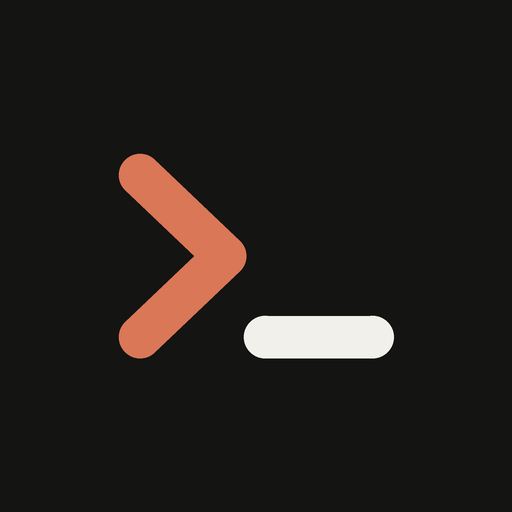
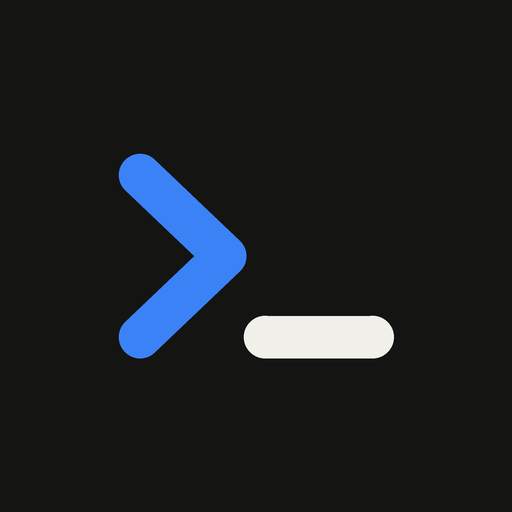
Change accent color to blue
Claude-Session: https://claude.ai/code/session_01USrH2oMHd8QiNXfh7Y2qGa

Changed region(s): [[0.2188, 0.2812, 0.5, 0.7188]]

diff --git a/index.html b/index.html
@@ -79,8 +79,8 @@
     --color-ocCard: #1f1e1c;
     --color-ocElevated: #292825;
     --color-ocBorder: #2e2c29;
-    --color-ocAccent: #d97757;
-    --color-ocAccentHover: #e48566;
+    --color-ocAccent: #3b82f6;
+    --color-ocAccentHover: #60a5fa;
     --color-ocText: #f2f0ea;
     --color-ocMuted: #9c988f;
   }
@@ -725,19 +725,19 @@
     }
   }
   .border-ocAccent\/35 {
-    border-color: color-mix(in srgb, #d97757 35%, transparent);
+    border-color: color-mix(in srgb, #3b82f6 35%, transparent);
     @supports (color: color-mix(in lab, red, red)) {
       border-color: color-mix(in oklab, var(--color-ocAccent) 35%, transparent);
     }
   }
   .border-ocAccent\/40 {
-    border-color: color-mix(in srgb, #d97757 40%, transparent);
+    border-color: color-mix(in srgb, #3b82f6 40%, transparent);
     @supports (color: color-mix(in lab, red, red)) {
       border-color: color-mix(in oklab, var(--color-ocAccent) 40%, transparent);
     }
   }
   .border-ocAccent\/45 {
-    border-color: color-mix(in srgb, #d97757 45%, transparent);
+    border-color: color-mix(in srgb, #3b82f6 45%, transparent);
     @supports (color: color-mix(in lab, red, red)) {
       border-color: color-mix(in oklab, var(--color-ocAccent) 45%, transparent);
     }
@@ -821,13 +821,13 @@
     background-color: var(--color-ocAccent);
   }
   .bg-ocAccent\/15 {
-    background-color: color-mix(in srgb, #d97757 15%, transparent);
+    background-color: color-mix(in srgb, #3b82f6 15%, transparent);
     @supports (color: color-mix(in lab, red, red)) {
       background-color: color-mix(in oklab, var(--color-ocAccent) 15%, transparent);
     }
   }
   .bg-ocAccent\/20 {
-    background-color: color-mix(in srgb, #d97757 20%, transparent);
+    background-color: color-mix(in srgb, #3b82f6 20%, transparent);
     @supports (color: color-mix(in lab, red, red)) {
       background-color: color-mix(in oklab, var(--color-ocAccent) 20%, transparent);
     }
@@ -1219,14 +1219,14 @@
     user-select: all;
   }
   .focus-within\:border-ocAccent\/75:focus-within {
-    border-color: color-mix(in srgb, #d97757 75%, transparent);
+    border-color: color-mix(in srgb, #3b82f6 75%, transparent);
     @supports (color: color-mix(in lab, red, red)) {
       border-color: color-mix(in oklab, var(--color-ocAccent) 75%, transparent);
     }
   }
   @media (hover: hover) {
     .hover\:border-ocAccent\/50:hover {
-      border-color: color-mix(in srgb, #d97757 50%, transparent);
+      border-color: color-mix(in srgb, #3b82f6 50%, transparent);
     }
     @supports (color: color-mix(in lab, red, red)) {
       .hover\:border-ocAccent\/50:hover {
@@ -1240,7 +1240,7 @@
       background-color: #35342f;
     }
     .hover\:bg-ocAccent\/25:hover {
-      background-color: color-mix(in srgb, #d97757 25%, transparent);
+      background-color: color-mix(in srgb, #3b82f6 25%, transparent);
     }
     @supports (color: color-mix(in lab, red, red)) {
       .hover\:bg-ocAccent\/25:hover {
@@ -1248,7 +1248,7 @@
       }
     }
     .hover\:bg-ocAccent\/30:hover {
-      background-color: color-mix(in srgb, #d97757 30%, transparent);
+      background-color: color-mix(in srgb, #3b82f6 30%, transparent);
     }
     @supports (color: color-mix(in lab, red, red)) {
       .hover\:bg-ocAccent\/30:hover {
@@ -1689,7 +1689,7 @@
       --app-bg: #141413;
       --app-surface: #1c1c1a;
       --app-surface-elevated: #262522;
-      --app-accent: #d97757;
+      --app-accent: #3b82f6;
       --app-text: #f2f0ea;
       --app-text-muted: #9e9b93;
       --app-border: rgba(255, 255, 255, 0.08);
@@ -1790,7 +1790,7 @@
       font-family: 'JetBrains Mono', monospace;
       font-size: 0.84em;
       background-color: #292825;
-      color: #eeb09a;
+      color: #a9ccff;
       padding: 0.14rem 0.38rem;
       border-radius: 0.375rem;
       border: 1px solid #3a3833;
@@ -1802,9 +1802,9 @@
       margin: 0.65rem 0;
       font-style: italic;
     }
-    .md-prose a { color: #e48566; text-decoration: underline; text-underline-offset: 2px; }
+    .md-prose a { color: #60a5fa; text-decoration: underline; text-underline-offset: 2px; }
 
-    .tok-kw { color: #e0826d; font-weight: 500; }
+    .tok-kw { color: #7cb0ff; font-weight: 500; }
     .tok-str { color: #a3be8c; }
     .tok-num { color: #d08770; }
     .tok-com { color: #75726a; font-style: italic; }
@@ -1828,7 +1828,7 @@
 
   <div id="app-splash" style="position:fixed;inset:0;z-index:9999;background:#141413;display:flex;flex-direction:column;align-items:center;justify-content:center;gap:12px;transition:opacity 0.2s ease;">
     <div style="width:56px;height:56px;border-radius:16px;background:#1f1e1c;border:1px solid #2e2c29;display:flex;align-items:center;justify-content:center;box-shadow:0 8px 24px rgba(0,0,0,0.4);">
-      <svg width="28" height="28" viewBox="0 0 24 24" fill="#d97757">
+      <svg width="28" height="28" viewBox="0 0 24 24" fill="#3b82f6">
         <path d="M4 6l6 6-6 6-1.5-1.5L7 12 2.5 7.5zM12 16h9v2h-9z"></path>
       </svg>
     </div>
@@ -2538,7 +2538,7 @@ Rules:
       study: `You are OmniCode in Exam Study Guide mode — an expert university exam strategist & educator.
 When analyzing past question papers and syllabus units:
 1. Rank repeated topics by exact frequency across the uploaded papers (e.g. "MUST PREPARE — 8/10 papers", "VERY LIKELY — 5/10 papers", "GOOD TO PREPARE — 3/10 papers").
-2. Build a COMPLETE, self-contained, interactive dark-mode single-file HTML study guide (\`\`\`html) using warm dark colors (#141413 background, #1f1e1c cards, #2e2c29 borders, #d97757 terracotta accents) so the student can tap the "Live Preview" button on their phone.
+2. Build a COMPLETE, self-contained, interactive dark-mode single-file HTML study guide (\`\`\`html) using warm dark colors (#141413 background, #1f1e1c cards, #2e2c29 borders, #3b82f6 blue accents) so the student can tap the "Live Preview" button on their phone.
 3. Inside the HTML study guide, include:
   - Clickable filter tabs for Units (Unit I to Unit V) and numbered Topic buttons (1 to 10+).
   - Color-coded frequency badges (e.g. "8/10 papers", "Must prepare", "Very likely").
@@ -3772,7 +3772,7 @@ When analyzing past question papers and syllabus units:
 
     function buildDemoReply(prompt, badges, routedModelName) {
       if (state.workspaceMode === 'study' || (badges && badges.some(b => b.kind.includes('PDF')))) {
-        return `Auto-routed to **${routedModelName}**! Tap **Live Preview** on the interactive study guide below:\n\n\`\`\`html\n<!-- exam_study_guide.html -->\n<!DOCTYPE html>\n<html lang="en">\n<head>\n  <meta charset="UTF-8" />\n  <meta name="viewport" content="width=device-width, initial-scale=1.0" />\n  <title>Interactive Exam Study Guide</title>\n  <style>\n    body { font-family: system-ui, sans-serif; background: #141413; color: #f2f0ea; margin: 0; padding: 16px; }\n    .wrap { max-width: 720px; margin: 0 auto; }\n    h1 { font-size: 18px; margin: 0 0 12px; }\n    .tabs { display: flex; flex-wrap: wrap; gap: 8px; margin-bottom: 16px; }\n    .tab { padding: 8px 12px; border-radius: 10px; border: 1px solid #2e2c29; background: #1f1e1c; color: #f2f0ea; font-size: 12px; cursor: pointer; }\n    .tab.active { background: #d97757; color: #141413; font-weight: 700; border-color: #d97757; }\n    .card { background: #1f1e1c; border: 1px solid #2e2c29; border-radius: 14px; padding: 16px; margin-bottom: 12px; }\n    .badge { display: inline-block; padding: 3px 8px; border-radius: 999px; font-size: 11px; font-weight: 700; background: rgba(217,119,87,0.18); color: #d97757; margin-bottom: 6px; }\n    pre { background: #0e0e0d; padding: 12px; border-radius: 10px; overflow-x: auto; font-size: 12px; color: #a3be8c; }\n  </style>\n</head>\n<body>\n  <div class="wrap">\n    <h1>70-Mark Exam — High-Frequency Study Guide</h1>\n    <div class="tabs">\n      <button class="tab active" onclick="showTab(0, this)">1. Peterson's Solution</button>\n      <button class="tab" onclick="showTab(1, this)">2. Banker's Algorithm</button>\n      <button class="tab" onclick="showTab(2, this)">3. Page Replacement</button>\n    </div>\n    <div id="content"></div>\n  </div>\n  <script>\n    const TOPICS = [\n      { badge: "MUST PREPARE • 8/10 papers", title: "Peterson's Solution (Critical Section)", desc: "Satisfies Mutual Exclusion, Progress, and Bounded Waiting for 2 processes.", code: "flag[i] = true;\\nturn = j;\\nwhile (flag[j] && turn == j);\\nflag[i] = false;" },\n      { badge: "MUST PREPARE • 7/10 papers", title: "Banker's Algorithm (Deadlock Avoidance)", desc: "Step 1: Compute Need = Max - Allocation. Step 2: Safe Sequence P1 -> P3 -> P4 -> P0 -> P2.", code: "Need[i][j] = Max[i][j] - Allocation[i][j]\\nCheck: Need[i] <= Work" },\n      { badge: "VERY LIKELY • 8/10 papers", title: "LRU & Optimal Page Replacement", desc: "Reference string: 7, 0, 1, 2, 0, 3, 0, 4. Mark every miss with F.", code: "FIFO Faults = 15 | LRU = 12 | Optimal = 9" }\n    ];\n    function showTab(idx, btn) {\n      document.querySelectorAll('.tab').forEach(b => b.classList.remove('active'));\n      if (btn) btn.classList.add('active');\n      const t = TOPICS[idx];\n      document.getElementById('content').innerHTML = '<div class="card"><span class="badge">' + t.badge + '</span><h2>' + t.title + '</h2><p>' + t.desc + '</p><pre>' + t.code + '</pre></div>';\n    }\n    showTab(0);\n  <\/script>\n</body>\n</html>\n\`\`\``;
+        return `Auto-routed to **${routedModelName}**! Tap **Live Preview** on the interactive study guide below:\n\n\`\`\`html\n<!-- exam_study_guide.html -->\n<!DOCTYPE html>\n<html lang="en">\n<head>\n  <meta charset="UTF-8" />\n  <meta name="viewport" content="width=device-width, initial-scale=1.0" />\n  <title>Interactive Exam Study Guide</title>\n  <style>\n    body { font-family: system-ui, sans-serif; background: #141413; color: #f2f0ea; margin: 0; padding: 16px; }\n    .wrap { max-width: 720px; margin: 0 auto; }\n    h1 { font-size: 18px; margin: 0 0 12px; }\n    .tabs { display: flex; flex-wrap: wrap; gap: 8px; margin-bottom: 16px; }\n    .tab { padding: 8px 12px; border-radius: 10px; border: 1px solid #2e2c29; background: #1f1e1c; color: #f2f0ea; font-size: 12px; cursor: pointer; }\n    .tab.active { background: #3b82f6; color: #141413; font-weight: 700; border-color: #3b82f6; }\n    .card { background: #1f1e1c; border: 1px solid #2e2c29; border-radius: 14px; padding: 16px; margin-bottom: 12px; }\n    .badge { display: inline-block; padding: 3px 8px; border-radius: 999px; font-size: 11px; font-weight: 700; background: rgba(59,130,246,0.18); color: #3b82f6; margin-bottom: 6px; }\n    pre { background: #0e0e0d; padding: 12px; border-radius: 10px; overflow-x: auto; font-size: 12px; color: #a3be8c; }\n  </style>\n</head>\n<body>\n  <div class="wrap">\n    <h1>70-Mark Exam — High-Frequency Study Guide</h1>\n    <div class="tabs">\n      <button class="tab active" onclick="showTab(0, this)">1. Peterson's Solution</button>\n      <button class="tab" onclick="showTab(1, this)">2. Banker's Algorithm</button>\n      <button class="tab" onclick="showTab(2, this)">3. Page Replacement</button>\n    </div>\n    <div id="content"></div>\n  </div>\n  <script>\n    const TOPICS = [\n      { badge: "MUST PREPARE • 8/10 papers", title: "Peterson's Solution (Critical Section)", desc: "Satisfies Mutual Exclusion, Progress, and Bounded Waiting for 2 processes.", code: "flag[i] = true;\\nturn = j;\\nwhile (flag[j] && turn == j);\\nflag[i] = false;" },\n      { badge: "MUST PREPARE • 7/10 papers", title: "Banker's Algorithm (Deadlock Avoidance)", desc: "Step 1: Compute Need = Max - Allocation. Step 2: Safe Sequence P1 -> P3 -> P4 -> P0 -> P2.", code: "Need[i][j] = Max[i][j] - Allocation[i][j]\\nCheck: Need[i] <= Work" },\n      { badge: "VERY LIKELY • 8/10 papers", title: "LRU & Optimal Page Replacement", desc: "Reference string: 7, 0, 1, 2, 0, 3, 0, 4. Mark every miss with F.", code: "FIFO Faults = 15 | LRU = 12 | Optimal = 9" }\n    ];\n    function showTab(idx, btn) {\n      document.querySelectorAll('.tab').forEach(b => b.classList.remove('active'));\n      if (btn) btn.classList.add('active');\n      const t = TOPICS[idx];\n      document.getElementById('content').innerHTML = '<div class="card"><span class="badge">' + t.badge + '</span><h2>' + t.title + '</h2><p>' + t.desc + '</p><pre>' + t.code + '</pre></div>';\n    }\n    showTab(0);\n  <\/script>\n</body>\n</html>\n\`\`\``;
       }
       return `**Smart Auto-Router** selected **${routedModelName}** for your prompt:\n\n> *"${prompt}"*\n\nSwitch **Demo** to **Live** in the top-right bar to stream real responses from your saved API keys!`;
     }

diff --git a/sw.js b/sw.js
@@ -1,4 +1,4 @@
-const CACHE_NAME = 'omnicode-fast-v6';
+const CACHE_NAME = 'omnicode-fast-v7';
 const CORE_ASSETS = [
   './',
   './index.html',
